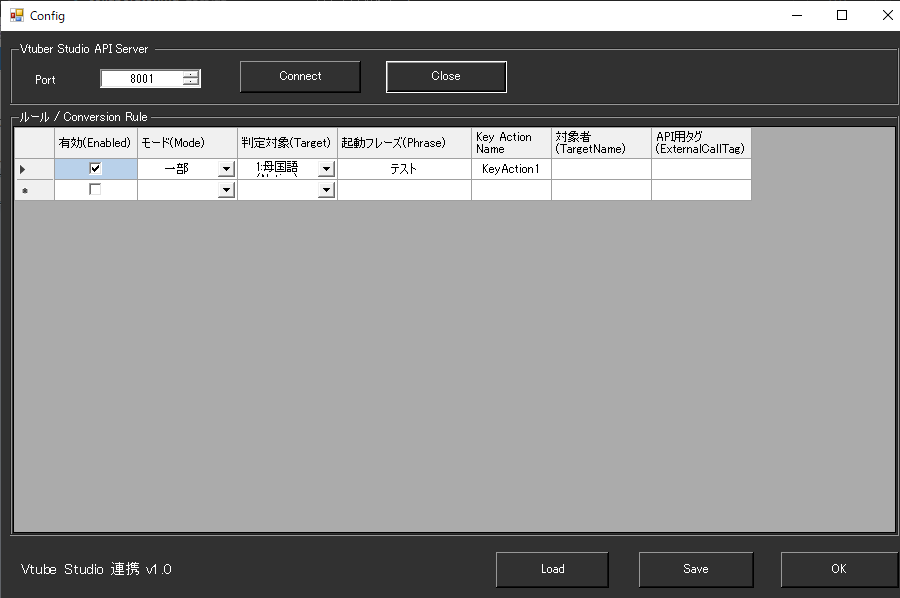
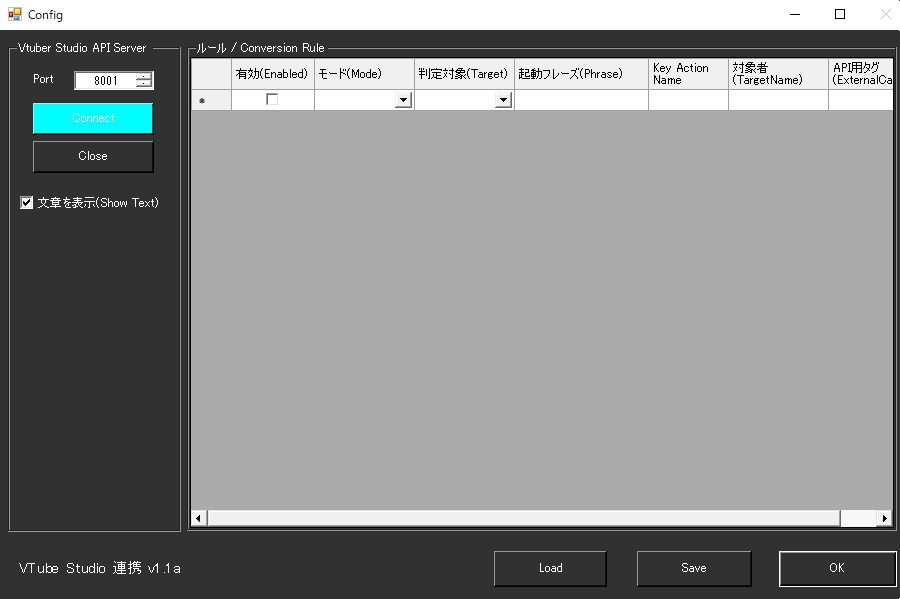
分からない点のドキュメント追記

diff --git a/docs/startup/startup_gas.md b/docs/startup/startup_gas.md
@@ -69,9 +69,14 @@
 
 ### 2. アドレスの設定をする
 
-![GASオプション](images/plugin_gas_p1.png)
+* ゆかりねっとコネクターNEOのオプションをひらきます。
+　　　![新しいプロジェクト](images/plugin_gas_p11.png)
 
 * ゆかりねっとコネクターNEOのオプション枠にあるURL欄にURLをいれます。
+
+![GASオプション](images/plugin_gas_p1.png)
+
+
 * 末尾の```/exec```は消してください。
 
 ### 3. 翻訳を使う設定

diff --git a/docs/plugin/plugin_VtubeStudio.md b/docs/plugin/plugin_VtubeStudio.md
@@ -20,6 +20,7 @@
 |設定|意味|
 |:--|:---|
 |Port|VTubeStudioと接続する通信ポート番号を指定します。デフォルトは　``8001`` です。|
+|文章を表示|VTubeStudioに字幕の枠を出します。
 
 ## ルール
 
